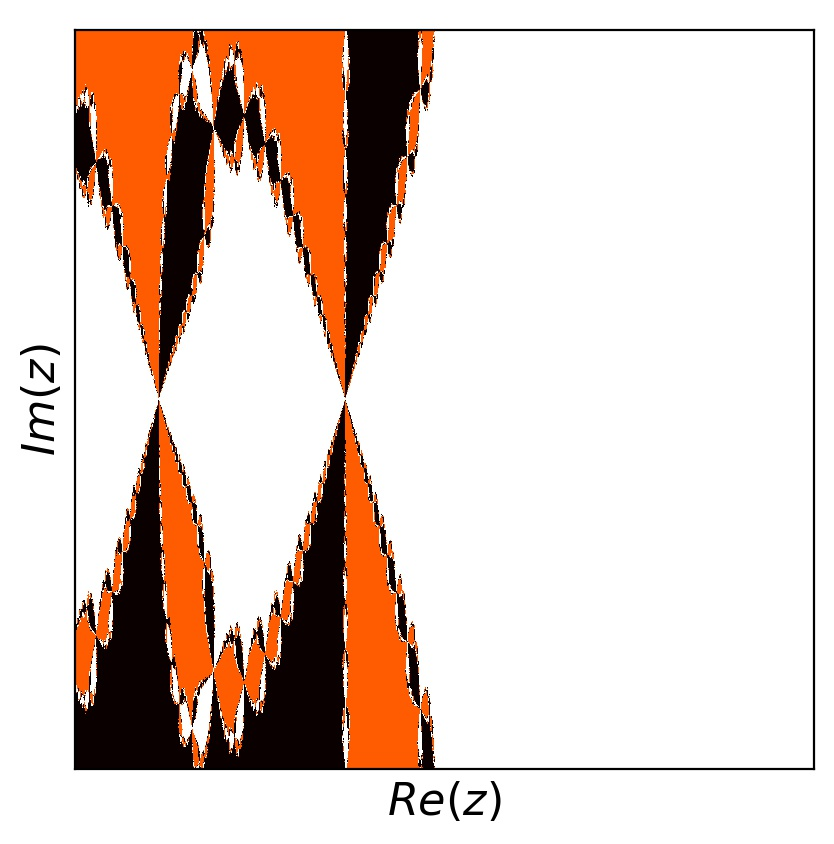
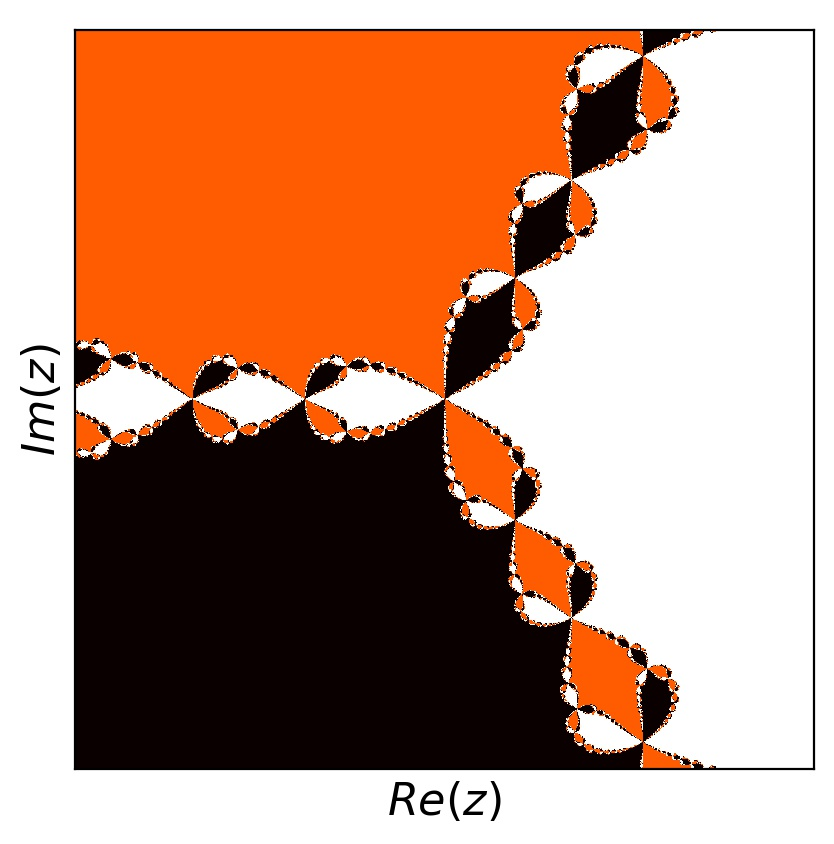
modify image bounds

diff --git a/Newton_Fractal.py b/Newton_Fractal.py
@@ -45,19 +45,19 @@ def id_root(zl,rlist):
     
 # define left and right boundaries for plotting    
 # for overview plots:
-#interval_left = -2.1
-#interval_right = 2.1
-#interval_down = -2.1
-#interval_up = 2.1
+interval_left = -2.1
+interval_right = 2.1
+interval_down = -2.1
+interval_up = 2.1
 # for detailed plots (adjust as needed):
-interval_left = -1.15
-interval_right = 2.
-interval_down = -0.25
-interval_up = 0.25
+#interval_left = -1.15
+#interval_right = 2.
+#interval_down = -0.25
+#interval_up = 0.25
 # set number of grid points on x and y axes for plotting 
 # use 100 for testing plotting ranges, 1000 for nice plots and 2000 for nicer plots
-num_x = 2000
-num_y = 2000
+num_x = 1000
+num_y = 1000
 # set desired precision and max number of iterations
 # keep precision goal smaller than findgoal (root matching) above
 prec_goal = 1.e-11
